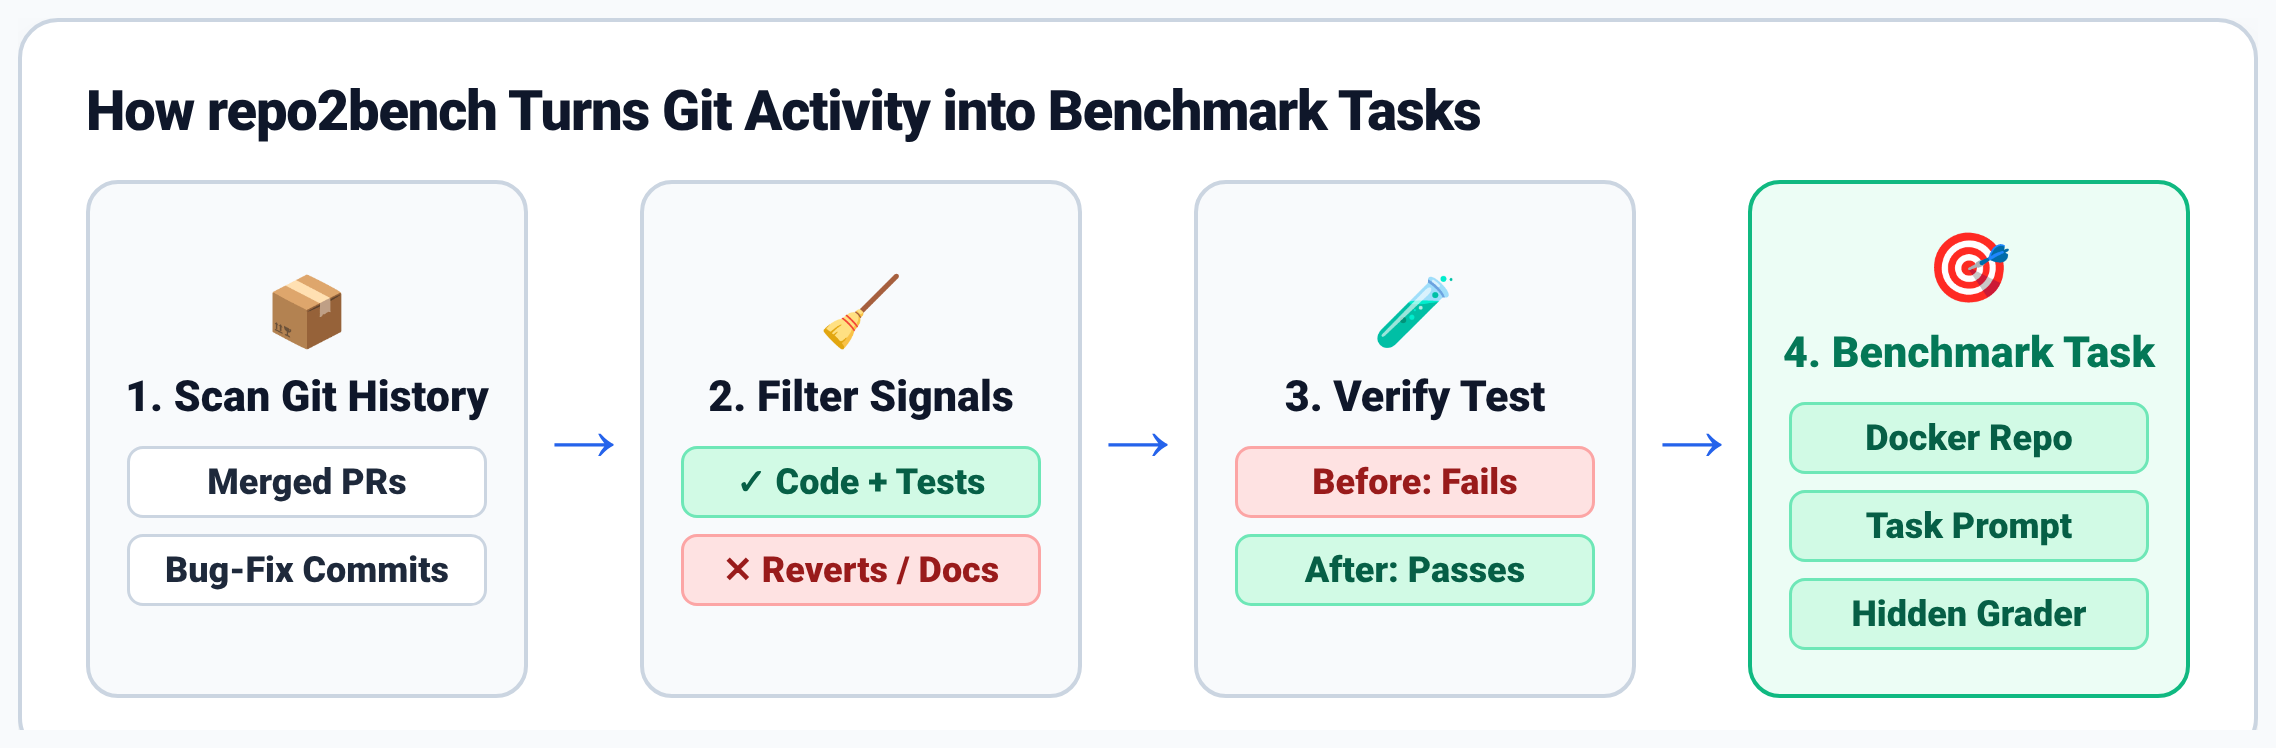
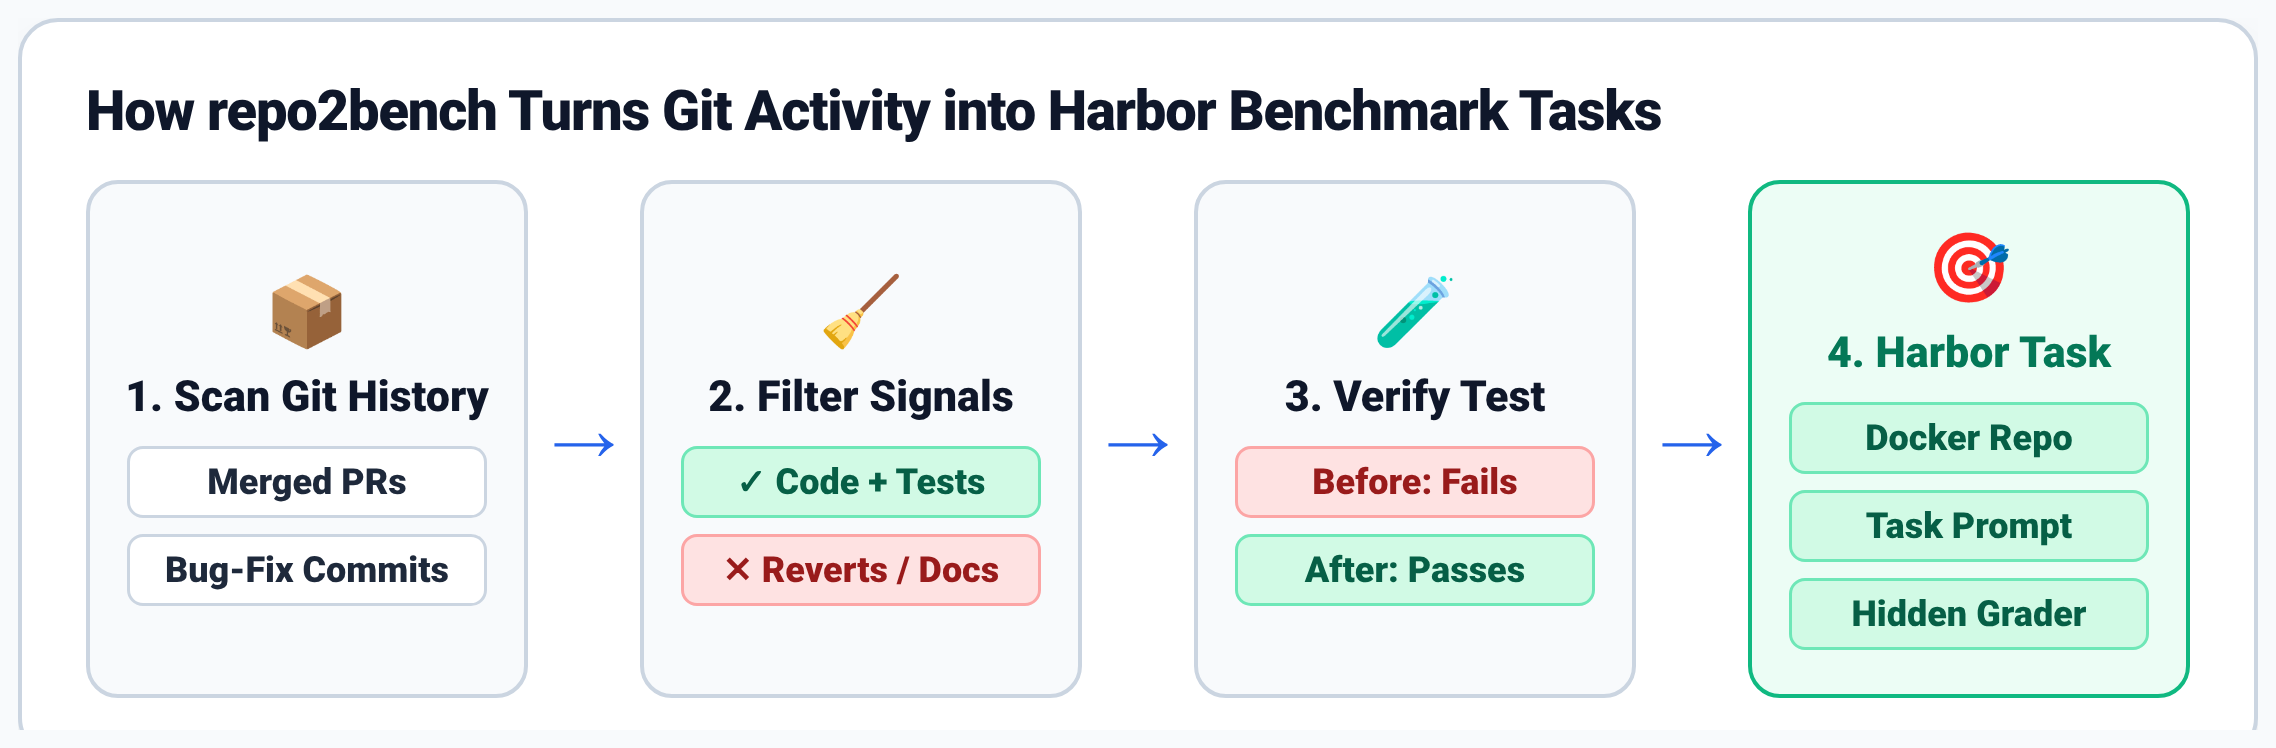
docs: highlight Harbor in subtitle and diagrams

Changed region(s): [[0.4679, 0.123, 0.7487, 0.1845], [0.7799, 0.4305, 0.967, 0.492]]

diff --git a/README.md b/README.md
@@ -1,11 +1,11 @@
 # `repo2bench`: Build your own custom code benchmark
-### Build the Eval Factory for Your Software Factory: Benchmark Coding Agents on Your Own Repo
+### Build the Eval Factory for Your Software Factory: Benchmark Coding Agents on Your Own Repo with [`repo2bench`](https://github.com/amirmordechai/repo2bench) & [`Harbor`](https://github.com/harbor-framework/harbor)
 
 <p align="center">
   <img src="docs/assets/overview_flow.png" alt="Software Factory to Eval Factory Flywheel" width="100%">
 </p>
 
-**`repo2bench`** turns any Git repository's activity history into a verified, container-isolated **[Harbor](https://github.com/harbor-bench/harbor)** coding agent benchmark in a single CLI command—so you can evaluate and compare coding agents (`Harness × Model × Thinking Budget`) directly on your own codebase.
+**`repo2bench`** turns any Git repository's activity history into a verified, container-isolated **[Harbor](https://github.com/harbor-framework/harbor)** coding agent benchmark in a single CLI command—so you can evaluate and compare coding agents (`Harness × Model × Thinking Budget`) directly on your own codebase.
 
 ---
 

diff --git a/examples/pydantic_marimo_blog/README.md b/examples/pydantic_marimo_blog/README.md
@@ -2,7 +2,7 @@
 
 This folder contains the complete datasets, scripts, empirical evaluation reports, and `Harness²`-optimized Antigravity configuration from the blog post:
 > **Build your own custom code benchmark**
-> *Build the Eval Factory for Your Software Factory: Benchmark Coding Agents on Your Own Repo with [`repo2bench`](https://github.com/amirmordechai/repo2bench) & Optimize with [`Harness²`](https://github.com/google-research/harness2)*
+> *Build the Eval Factory for Your Software Factory: Benchmark Coding Agents on Your Own Repo with [`repo2bench`](https://github.com/amirmordechai/repo2bench) & [`Harbor`](https://github.com/harbor-framework/harbor), and Optimize with [`Harness²`](https://github.com/google-research/harness2)*
 
 ---
 
